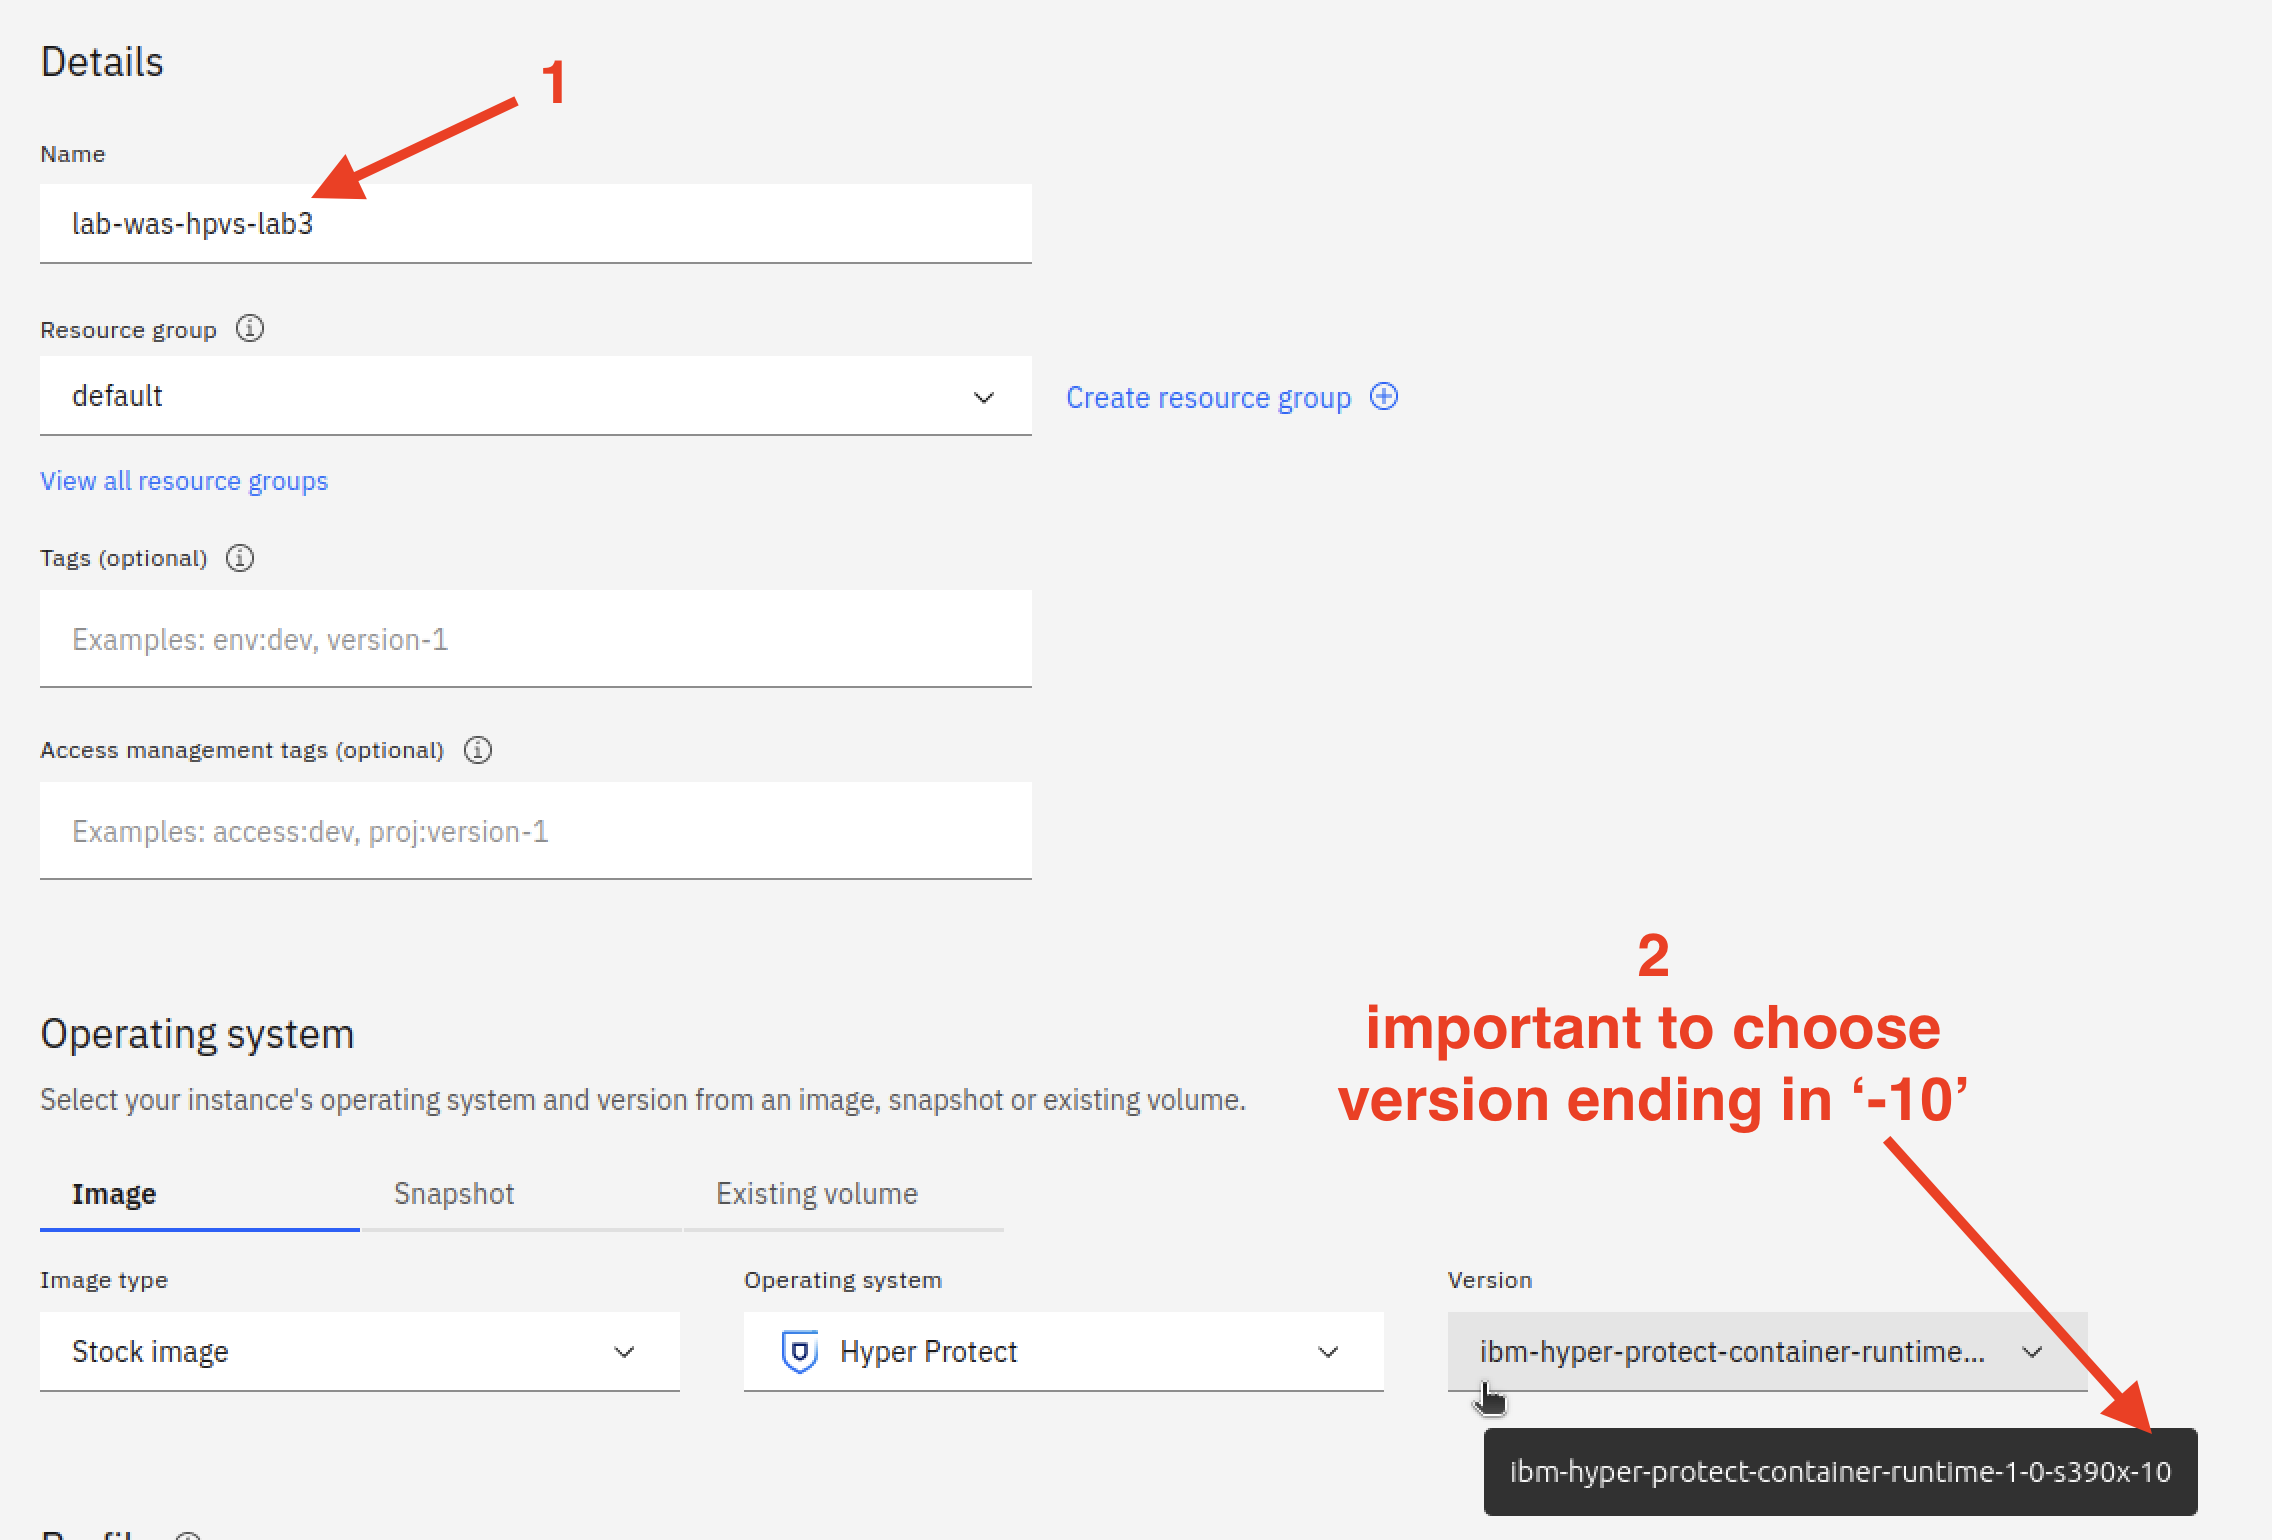
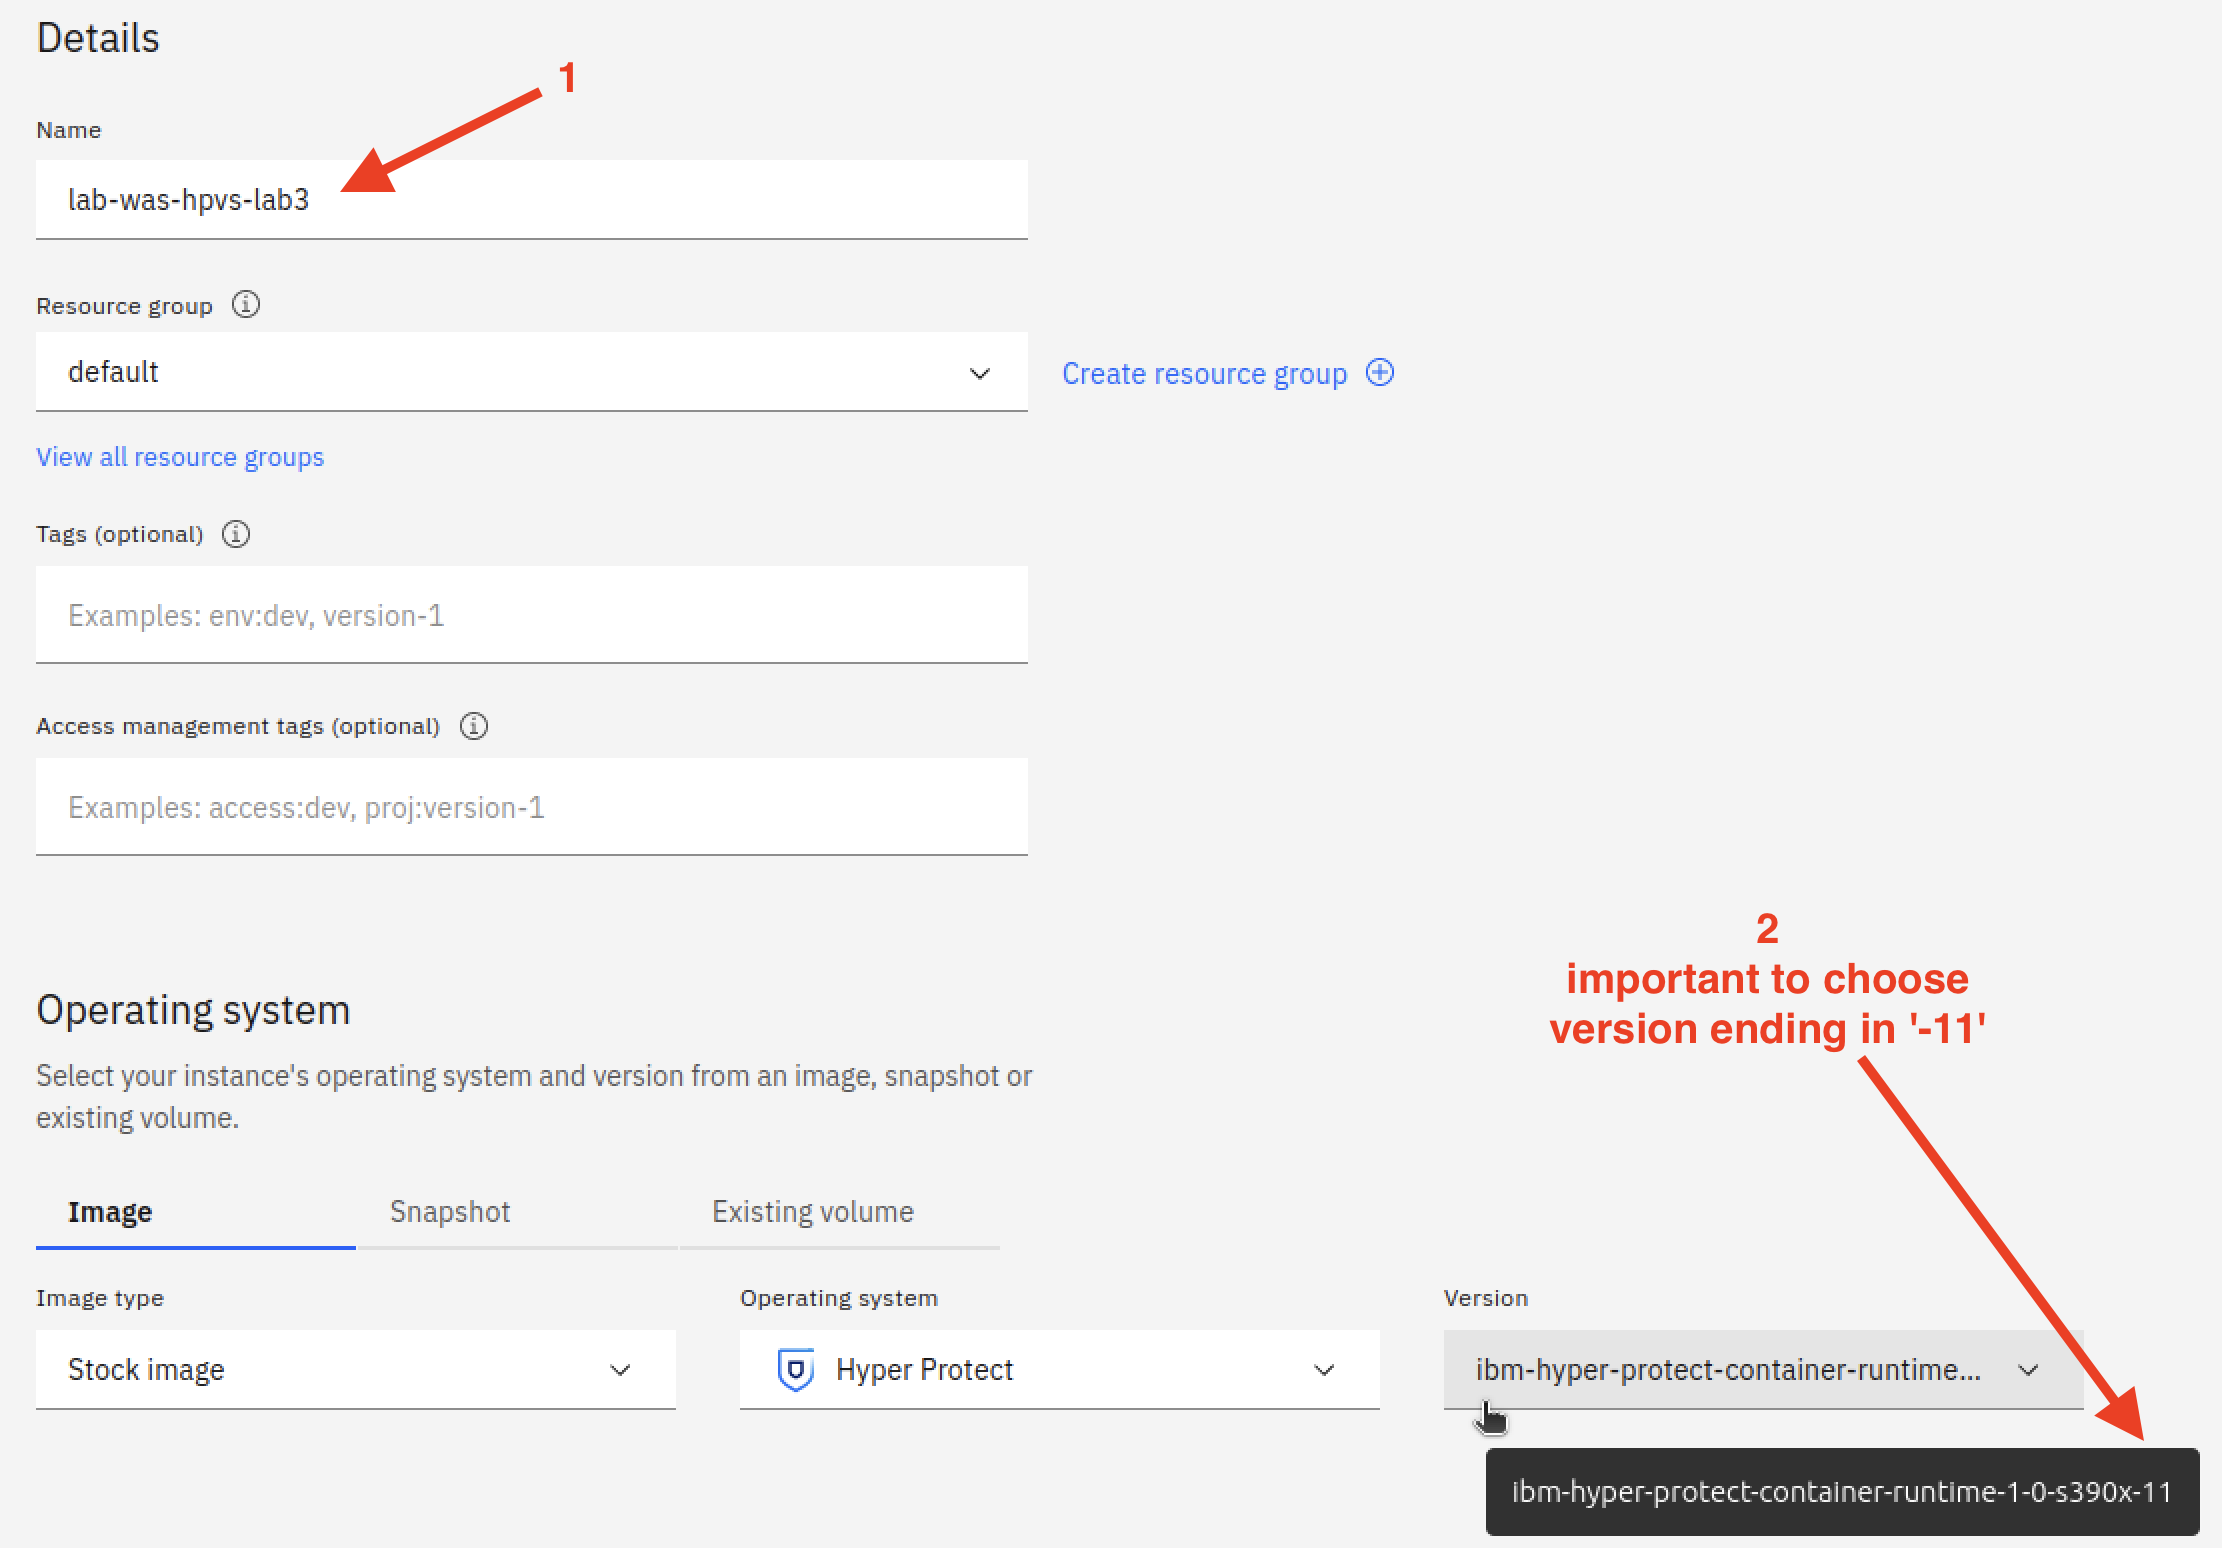
update lab hpcr image 11

diff --git a/docs/lab/cloud/lab4/createinstance.md b/docs/lab/cloud/lab4/createinstance.md
@@ -24,7 +24,7 @@ These instructions assume you are logged in to the IBM Cloud Web UI.  If not, pl
 
     <img src="../create040.png" width="846" height="842" />
 
-1. Give your instance a name in the *Name* field in the *Details* section.  We chose *lab-was-hpvs-lab4* as shown in the screen shot below. Then, it is very important to select the *Version* that ends in "*-10*"- you may have to select the field, then hover over the second entry to confirm that *ibm-hyper-protect-container-runtime-1-0-s390x-10* is selected.  The screen widget may be sized such that you cannot distinguish between the image ending in *-9* and the one ending in *-10* without the benefit of the tool tip that appears when you hover the mouse for a bit. Hopefully this screen snippet clarifies this:
+1. Give your instance a name in the *Name* field in the *Details* section.  We chose *lab-was-hpvs-lab4* as shown in the screen shot below. Then, it is very important to select the *Version* that ends in "*-11*"- you may have to select the field, then hover over the entry to confirm that *ibm-hyper-protect-container-runtime-1-0-s390x-11* is selected.  The screen widget may be sized such that you cannot distinguish between the image ending in *-10* and the one ending in *-11* without the benefit of the tool tip that appears when you hover the mouse for a bit. Hopefully this screen snippet clarifies this:
 
     <img src="../create050.png" width="1122" height="760" />
 

diff --git a/docs/lab/cloud/lab3/createinstance.md b/docs/lab/cloud/lab3/createinstance.md
@@ -24,7 +24,7 @@ These instructions assume you are logged in to the IBM Cloud Web UI.  If not, pl
 
     <img src="../create040.png" width="846" height="842" />
 
-1. Give your instance a name in the *Name* field in the *Details* section.  We chose *lab-was-hpvs-lab3* in the screen shot below.  Then, it is very important to select the *Version* that ends in "*-10*"- you may have to select the field, then hover over the second entry to confirm that *ibm-hyper-protect-container-runtime-1-0-s390x-10* is selected.  The screen widget may be sized such that you cannot distinguish between the image ending in *-9* and the one ending in *-10* without the benefit of the tool tip that appears when you hover the mouse for a bit. Hopefully this screen snippet clarifies this:
+1. Give your instance a name in the *Name* field in the *Details* section.  We chose *lab-was-hpvs-lab3* in the screen shot below.  Then, it is very important to select the *Version* that ends in "*-11*"- you may have to select the field, then hover over the second entry to confirm that *ibm-hyper-protect-container-runtime-1-0-s390x-11* is selected.  The screen widget may be sized such that you cannot distinguish between the image ending in *-10* and the one ending in *-11* without the benefit of the tool tip that appears when you hover the mouse for a bit. Hopefully this screen snippet clarifies this:
 
     <img src="../create050.png" width="1136" height="770" />
 

diff --git a/docs/lab/cloud/lab1/createinstance.md b/docs/lab/cloud/lab1/createinstance.md
@@ -24,7 +24,7 @@ These instructions assume you are logged in to the IBM Cloud Web UI.  If not, pl
 
     <img src="../create040.png" width="846" height="842" />
 
-1. Give your instance a name in the *Name* field in the *Details* section.  We chose *lab-was-hpvs-lab1* in the screen shot below.  Then, it is very important to select the *Version* that ends in "*-10*"- you may have to select the field, then hover over the second entry to confirm that *ibm-hyper-protect-container-runtime-1-0-s390x-10* is selected.  The screen widget may be sized such that you cannot distinguish between the image ending in *-9* and the one ending in *-10* without the benefit of the tool tip that appears when you hover the mouse for a bit. Hopefully this screen snippet clarifies this:
+1. Give your instance a name in the *Name* field in the *Details* section.  We chose *lab-was-hpvs-lab1* in the screen shot below.  Then, it is very important to select the *Version* that ends in "*-11*"- you may have to select the field, then hover over the entry to confirm that *ibm-hyper-protect-container-runtime-1-0-s390x-11* is selected.  The screen widget may be sized such that you cannot distinguish between the image ending in *-10* and the one ending in *-11* without the benefit of the tool tip that appears when you hover the mouse for a bit. Hopefully this screen snippet clarifies this:
 
     <img src="../create050.png" width="1160" height="852" />
 

diff --git a/docs/lab/cloud/lab2/createinstance.md b/docs/lab/cloud/lab2/createinstance.md
@@ -24,7 +24,7 @@ These instructions assume you are logged in to the IBM Cloud Web UI.  If not, pl
 
     <img src="../create040.png" width="846" height="842" />
 
-1. Give your instance a name in the *Name* field in the *Details* section.  We chose *lab-was-hpvs-lab2* in the screen shot below.  Then, it is very important to select the *Version* that ends in "*-10*"- you may have to select the field, then hover over the second entry to confirm that *ibm-hyper-protect-container-runtime-1-0-s390x-10* is selected.  The screen widget may be sized such that you cannot distinguish between the image ending in *-9* and the one ending in *-10* without the benefit of the tool tip that appears when you hover the mouse for a bit. Hopefully this screen snippet clarifies this:
+1. Give your instance a name in the *Name* field in the *Details* section.  We chose *lab-was-hpvs-lab2* in the screen shot below.  Then, it is very important to select the *Version* that ends in "*-11*"- you may have to select the field, then hover over the entry to confirm that *ibm-hyper-protect-container-runtime-1-0-s390x-11* is selected.  The screen widget may be sized such that you cannot distinguish between the image ending in *-10* and the one ending in *-11* without the benefit of the tool tip that appears when you hover the mouse for a bit. Hopefully this screen snippet clarifies this:
 
     <img src="../create050.png" width="1143" height="843" />
 

diff --git a/docs/lab/cloud/lab3/prepcontract.md b/docs/lab/cloud/lab3/prepcontract.md
@@ -93,7 +93,7 @@
         archive: \$(\$LAB_TAR -czv -C compose . | base64 \${LAB_WRAP})" > \${WORKLOAD_PLAIN}
     
     # Download certificate to encrypt contract for Hyper Protect Container Runtime:
-    HPCR_rev=10
+    HPCR_rev=11
     CONTRACT_KEY=./ibm-hyper-protect-container-runtime-1-0-s390x-\${HPCR_rev}-encrypt.crt
     curl https://cloud.ibm.com/media/docs/downloads/hyper-protect-container-runtime/ibm-hyper-protect-container-runtime-1-0-s390x-\${HPCR_rev}-encrypt.crt > \${CONTRACT_KEY}
     
@@ -167,7 +167,7 @@
           seed: seed-supplied-by-env-persona" > \${ENV_PLAIN}
     
     # Download certificate to encrypt contract for Hyper Protect Container Runtime:
-    HPCR_rev=10
+    HPCR_rev=11
     CONTRACT_KEY=./ibm-hyper-protect-container-runtime-1-0-s390x-\${HPCR_rev}-encrypt.crt
     curl https://cloud.ibm.com/media/docs/downloads/hyper-protect-container-runtime/\$CONTRACT_KEY > \$CONTRACT_KEY
     

diff --git a/docs/lab/cloud/lab4/prepcontract.md b/docs/lab/cloud/lab4/prepcontract.md
@@ -93,7 +93,7 @@
         archive: \$(\${LAB_TAR} -czv -C compose . | base64 \${LAB_WRAP})" > \${WORKLOAD_PLAIN}
     
     # Download certificate to encrypt contract for Hyper Protect Container Runtime:
-    HPCR_rev=10
+    HPCR_rev=11
     CONTRACT_KEY=./ibm-hyper-protect-container-runtime-1-0-s390x-\${HPCR_rev}-encrypt.crt
     curl https://cloud.ibm.com/media/docs/downloads/hyper-protect-container-runtime/ibm-hyper-protect-container-runtime-1-0-s390x-\${HPCR_rev}-encrypt.crt > \${CONTRACT_KEY}
     
@@ -150,7 +150,7 @@
     cat ./pubSigningKey.yaml >> \${ENV_PLAIN}
 
     # Download certificate to encrypt contract for Hyper Protect Container Runtime:
-    HPCR_rev=10
+    HPCR_rev=11
     CONTRACT_KEY=./ibm-hyper-protect-container-runtime-1-0-s390x-\${HPCR_rev}-encrypt.crt
     curl https://cloud.ibm.com/media/docs/downloads/hyper-protect-container-runtime/\$CONTRACT_KEY > \$CONTRACT_KEY
     

diff --git a/docs/lab/cloud/lab2/prepcontract.md b/docs/lab/cloud/lab2/prepcontract.md
@@ -92,7 +92,7 @@
         archive: \$(\${LAB_TAR} -czv -C compose . | base64 \${LAB_WRAP})" > \${WORKLOAD_PLAIN}
     
     # Download certificate to encrypt contract for Hyper Protect Container Runtime:
-    HPCR_rev=10
+    HPCR_rev=11
     CONTRACT_KEY=./ibm-hyper-protect-container-runtime-1-0-s390x-\${HPCR_rev}-encrypt.crt
     curl https://cloud.ibm.com/media/docs/downloads/hyper-protect-container-runtime/ibm-hyper-protect-container-runtime-1-0-s390x-\${HPCR_rev}-encrypt.crt > \${CONTRACT_KEY}
     
